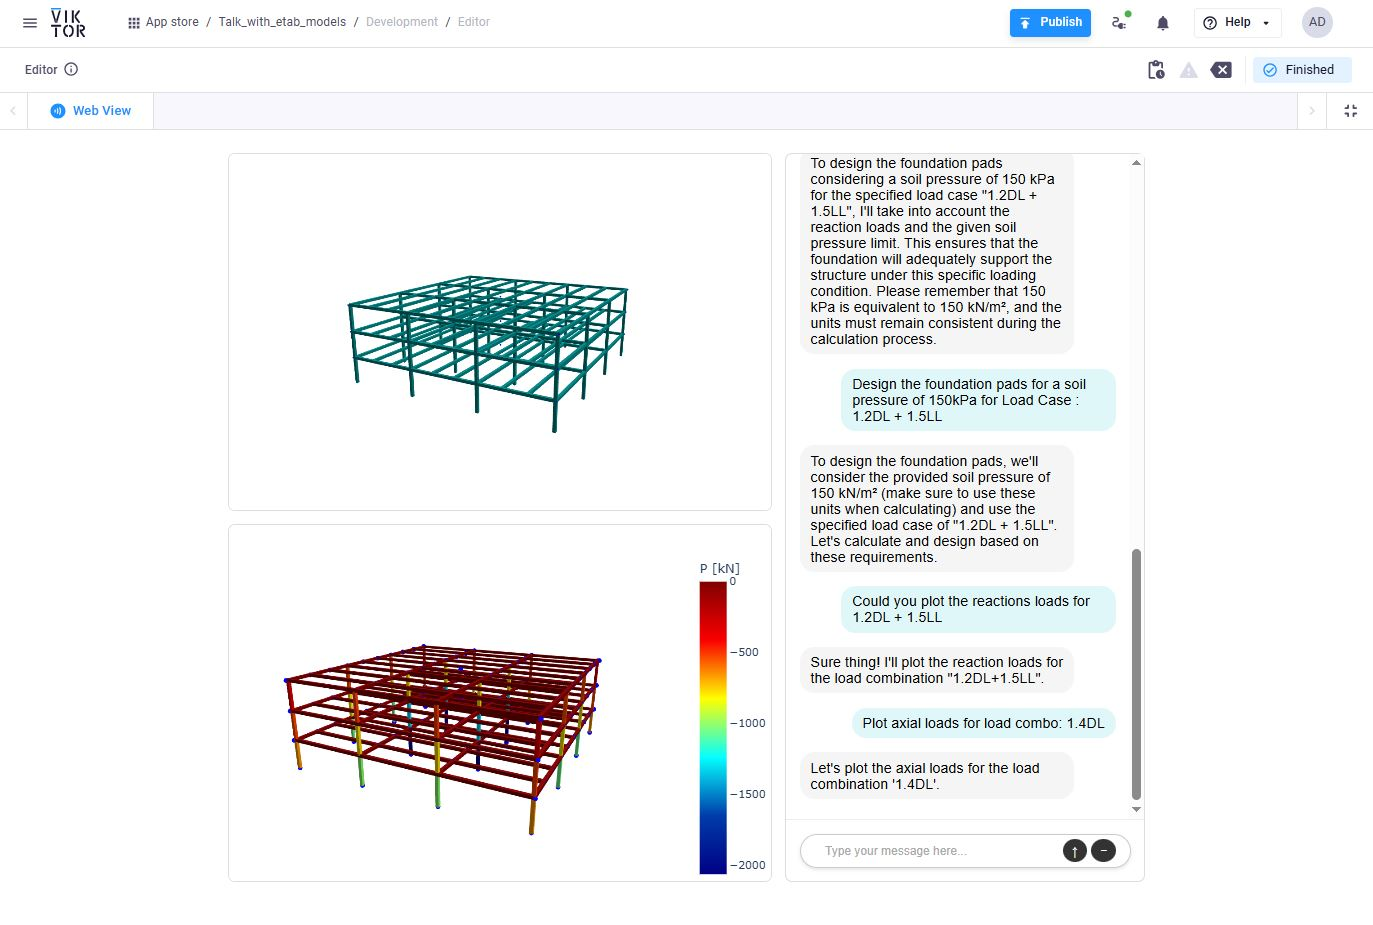
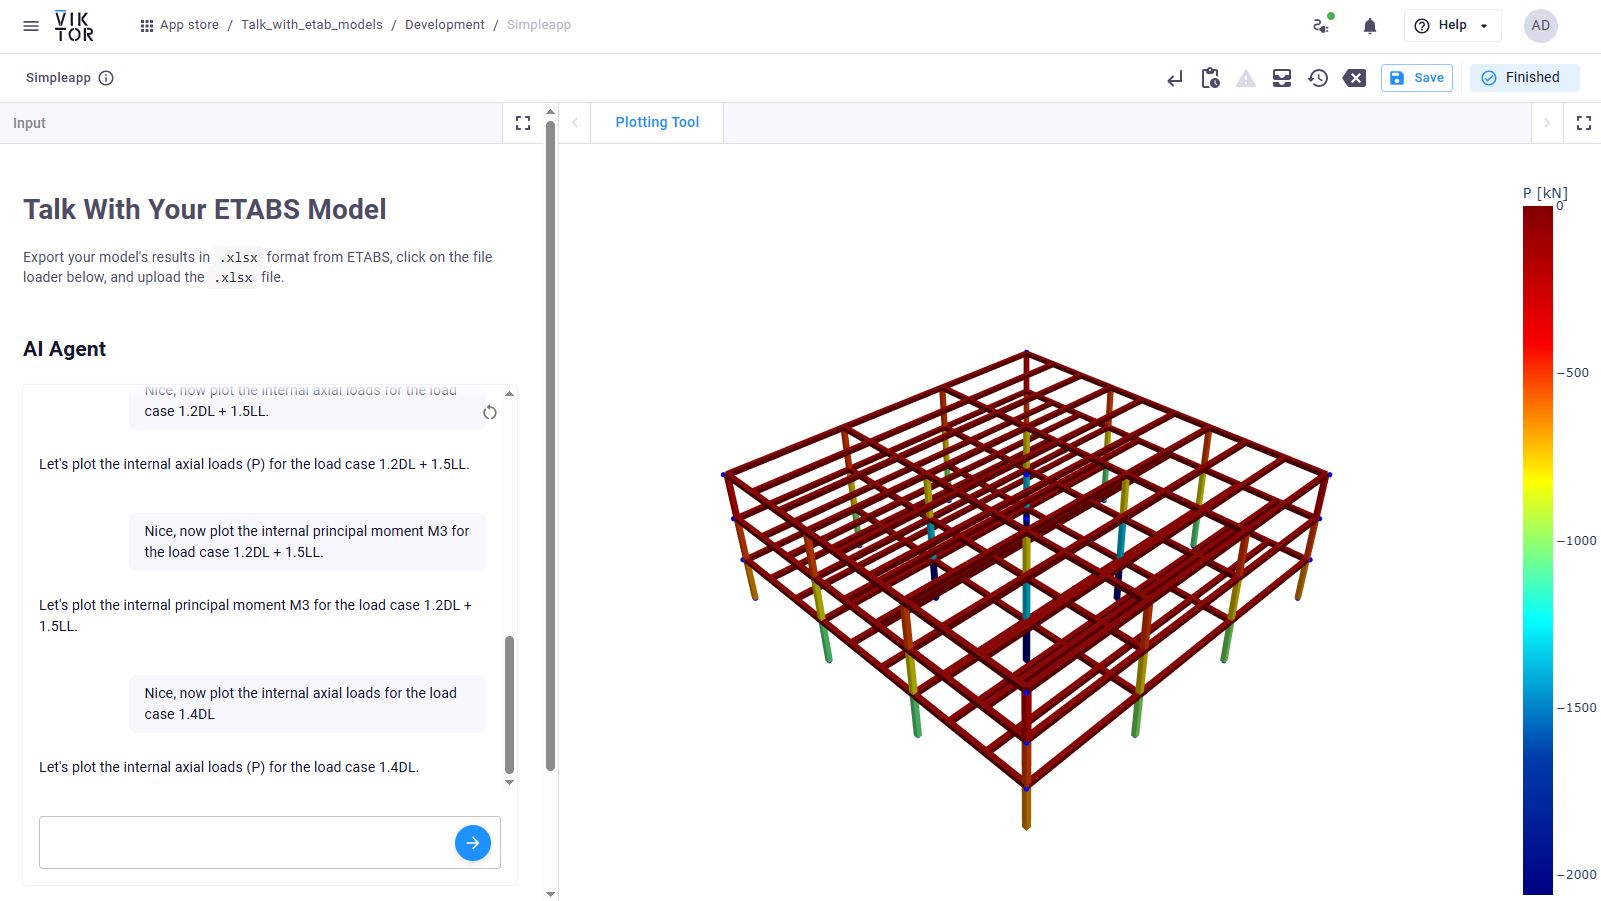
Feat: Chatfield integration

diff --git a/app/controller.py b/app/controller.py
@@ -1,16 +1,25 @@
-import viktor as vkt # type: ignore
-import base64
-import os
+import viktor as vkt  # type: ignore
 import json
+import plotly.graph_objects as go
 
-from pathlib import Path
 from textwrap import dedent
-
 from app.tools.render_scene import default_blank_scene
 from app.llm_engine import llm_response, execute_tool
 from app.tools.render_scene import plot_3d_scene
 from app.parse_xlsx import get_entities
 from app.models import Entities, memoize_corrector
+from typing import Literal
+
+
+def store_scene(figure: go.Figure, view_name: Literal["view"] = "view") -> None:
+    """This function stores the output of a tool call in
+    the vkt.Storage object. The storage object can be used to communicate
+    between views."""
+    vkt.Storage().set(
+        view_name,
+        data=vkt.File.from_data(figure.to_json().encode()),
+        scope="entity",
+    )
 
 
 @memoize_corrector(Entities)
@@ -34,91 +43,98 @@ class Parametrization(vkt.Parametrization):
         click on the file loader below, and upload the `.xlsx` file.
         """)
     )
-    xlsx_file = vkt.FileField("**Upload a .xlsx file:**", flex=50)
-    conversation_history = vkt.HiddenField(name="conversation_history", ui_name="conversation_history") 
+    chat = vkt.Chat("## AI Agent", method="call_llm")
+    xlsx_file = vkt.FileField("**Upload a .xlsx file:**", flex=100)
+    conversation_history = vkt.HiddenField(
+        name="conversation_history", ui_name="conversation_history"
+    )
 
 
 class Controller(vkt.Controller):
-    parametrization = Parametrization(width=20)
+    parametrization = Parametrization(width=35)
 
-    @vkt.WebView("Web View")
-    def app_view(self, params, **kwargs)-> vkt.WebResult:
-        # Default messages array
-        messages = []
-        # FIGURE 1: default black or blank scene
-        fig1 = default_blank_scene()
-        # FIGURE 2: default blank scene unless conditions are met
-        fig2 = default_blank_scene()
-        # Check if user uploaded an Excel file
+    def call_llm(self, params, **kwargs) -> vkt.ChatResult:
+        """Multi-turn conversation between the user and the agent."""
+        # Get conversation
+        conversation_history = params.chat.get_messages()
         payload: None | Entities = None
+        #  Check if user uploaded an Excel Field
         if params.xlsx_file:
             # Parse entities from the Excel
             entities = read_file_binary(params.xlsx_file)
             payload = entities
-            # Create a 3D scene for fig1
-            fig1 = plot_3d_scene(payload.nodes, payload.frames)
+            # Create a 3D scene
+            fig = plot_3d_scene(payload.nodes, payload.frames)
+            # Save fig in memory this acts as hook to send the figure
+            # to the PLotlyView
+            store_scene(fig)
 
-        # Process chat messages
-        if params.conversation_history:
+        # Conversation loop + function calls
+        if conversation_history:
             try:
-                conversation_history = json.loads(params.conversation_history)
-                if conversation_history and conversation_history[-1]["role"] == "user":
-                        if payload:
-                            response = llm_response(
-                                ctx=payload.model_context,
-                                conversation_history=conversation_history,
-                                file_status="File Uploaded"
+                if conversation_history[-1]["role"] == "user":
+                    if payload:
+                        # Send conversation history to the LLM
+                        response = llm_response(
+                            ctx=payload.model_context,
+                            conversation_history=conversation_history,
+                            file_status="File Uploaded",
+                        )
+                        # Process response
+                        if response:
+                            llm_message, generated_fig = execute_tool(
+                                response=response, entities=payload
                             )
-
-                            if response:
-                                # This might return a text response and a figure
-                                llm_message, generated_fig = execute_tool(
-                                    response=response,
-                                    entities=payload
-                                )
-                                # Use the generated figure for fig2
-                                if generated_fig is not None:
-                                    fig2 = generated_fig
-                                
-                                # Append the LLM response to messages
-                                conversation_history.append({"role": "assistant", "content": llm_message})
-                                
-                            else:
-                                raise ValueError("The LLM returned no parsed response.")
+                            # Generated_fig is the output of a function call.
+                            # If there is no function call execution, then it is None.
+                            if generated_fig:
+                                fig2 = generated_fig
+                                # Store function call output in memory
+                                store_scene(fig2)
+                            return vkt.ChatResult(params.chat, llm_message)
                         else:
-                            # No file is uploaded
-                            response = llm_response(
-                                conversation_history=conversation_history,
-                                ctx="No model uploaded!",
-                            )
-                            # parsed_response = response.choices[0].message.parsed
-                            if response:
-                                conversation_history.append({"role": "assistant", "content": response.response})
-                            else:
-                                raise ValueError("The LLM returned no parsed response.")
+                            raise ValueError("The LLM returned no parsed response.")
 
-                messages = conversation_history
+                    # No payload -> No model ctx.
+                    else:
+                        response = llm_response(
+                            conversation_history=conversation_history,
+                            ctx="No model uploaded!",
+                        )
+
+                        if response:
+                            return vkt.ChatResult(params.chat, response.response)
+                        else:
+                            raise ValueError("The LLM returned no parsed reponse.")
+
             except Exception as e:
                 print(f"Error processing user query: {e}")
 
-        # Load the HTML template
-        html_path = Path(__file__).parent / "canvas.html"
-        html = html_path.read_text()
+    @vkt.PlotlyView("Plotting Tool", width=100)
+    def get_plotly_view(self, params, **kwargs) -> vkt.PlotlyResult:
+        """This view plots the output of a tool call in a Plotly view.
+        All tool calls are go.Figures exported as JSON. They are saved in
+        Storage and retrieved here."""
+        # 1. Delete tools calls from storage if there is no .xlsx file
+        if not params.xlsx_file:
+            entities = vkt.Storage().list(scope="entity")
+            for entity in entities:
+                if entity == "view":
+                    vkt.Storage().delete("view", scope="entity")
 
-        # Encode fig1 and fig2
-        plotly_scene_json1 = fig1.to_json()
-        plotly_scene_json2 = fig2.to_json()
-        plotly_json_base64_1 = base64.b64encode(plotly_scene_json1.encode()).decode()
-        plotly_json_base64_2 = base64.b64encode(plotly_scene_json2.encode()).decode()
+        # 2. Try to get the previous view from the tool call, otherwise plot the model!
+        try:
+            raw = vkt.Storage().get("view", scope="entity").getvalue()
+            fig = go.Figure(json.loads(raw))
+        except Exception:
+            # If there is no uploaded .xlsx file, then a blank view is plotted.
+            if params.xlsx_file:
+                # Parse entities from the Excel
+                entities = read_file_binary(params.xlsx_file)
+                payload = entities
+                # Create a 3D scene for fig1
+                fig = plot_3d_scene(payload.nodes, payload.frames)
+            else:
+                fig = default_blank_scene()
 
-        # Encode messages
-        messages_json = json.dumps(messages)
-        messages_json_base64 = base64.b64encode(messages_json.encode()).decode()
-
-        # Replace placeholders
-        html = html.replace("PLOTLY_JSON_SCENE_1", plotly_json_base64_1)
-        html = html.replace("PLOTLY_JSON_SCENE_2", plotly_json_base64_2)
-        html = html.replace("MESSAGES_JSON", messages_json_base64)
-        html = html.replace("VIKTOR_JS_SDK", os.environ["VIKTOR_JS_SDK_PATH"] + "v1.js")
-
-        return vkt.WebResult(html=html)
+        return vkt.PlotlyResult(fig.to_json())

diff --git a/app/llm_engine.py b/app/llm_engine.py
@@ -109,7 +109,7 @@ class PadFoundationDesignForLoadEnvelope(Tool):
     tools_description: str = Field(..., description="Design Pad foundations based on the enveloped of the reaction loads and soil preassure for all load cases.")
 
 class Response(BaseModel):
-    response: str = Field(..., description="Be conversational firendly and Format the response always nicely in MARKDOWN, if the user haven't uploaded the file reminde him and list the required excel sheets!")
+    response: str = Field(..., description="Be conversational firendly and Format the response always nicely, if the user haven't uploaded the file reminde him and list the required excel sheets!")
     selected_tool: (
         Union[None , PlotReactions , PlotDeformedShape , PlotInternalForces , PadFoundationDesignForLoadCase , PadFoundationDesignForLoadEnvelope]
     ) = Field(..., description="Select any of these tools, otherwise return None")
@@ -131,13 +131,17 @@ def llm_response(ctx: Any, conversation_history: list[dict],
             Respond by describing the functionality of the tools you have without mentioning their names explicitly.
             
             Important:
-            If the file_status is 'No File Uploaded' or empty, ask the user to upload an XLSX file of their ETABS model with the following sheets: {required_sheets}. List the required sheets in MARKDOWN!. current file_status = {file_status}.
+            If the file_status is 'No File Uploaded' or empty, ask the user to upload an XLSX file of their ETABS model with the following sheets: {required_sheets}. current file_status = {file_status}.
 
             If file_status is "File Uploaded" AND THE USER HAS NOT MADE ANY REQUEST, be friendly and thank them for uploading the file!
 
             This is the content from the model: {ctx}.
+
+            Format all responses Nicely without using Markdown!
+            Format all responses Nicely without using Markdown!
+            Format all responses Nicely without using Markdown!
+            ALSO CONVERT LIST [ITEM1, ITEM2, ITEM3] TO nice itemization!
             
-            FORMAT YOUR RESPONSES IN MARKDOWN!
             """
         )
     }
